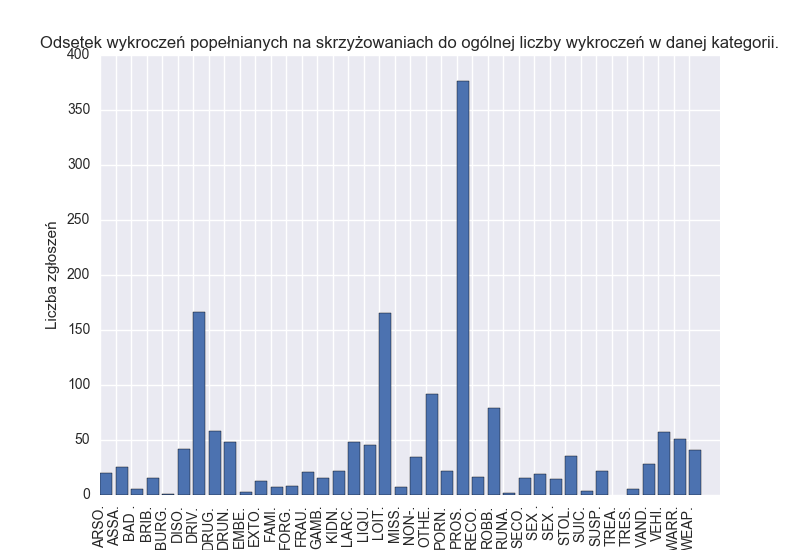
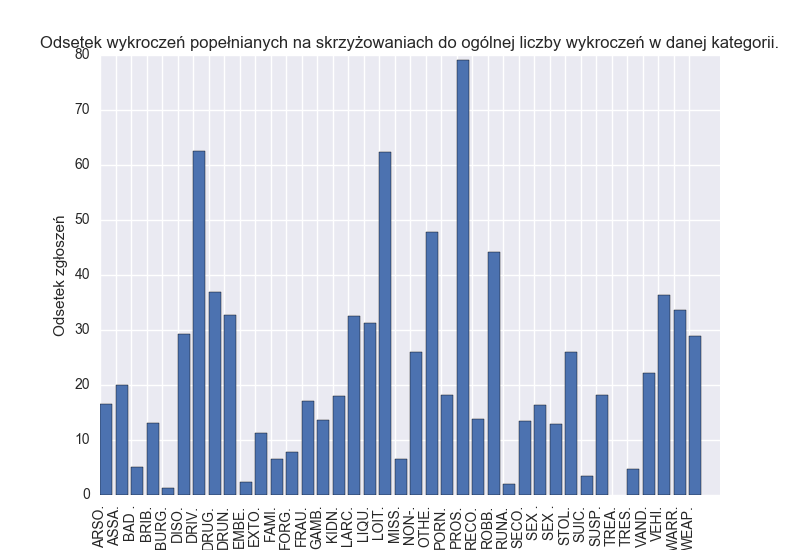
Street corner vs crime type: updated graph

diff --git a/forest.py b/forest.py
@@ -13,6 +13,7 @@ start = time.time()
 # Wczytujemy dane (pomijamy kolumny: Descript, Resolution, Address)
 train = pd.read_csv('train.csv', parse_dates = ['Dates'], index_col = False)
 test = pd.read_csv('test.csv', parse_dates = ['Dates'], index_col = False)
+
 '''
 ax = sns.countplot(x = train["Category"])
 ax.set(xlabel = 'Wykroczenie', ylabel = 'Liczba wystąpień')
@@ -39,6 +40,14 @@ test['Time'] = test['Dates'].dt.hour * 60 + test['Dates'].dt.minute
 train['Corner'] = train['Address'].str.contains('/').map(int)
 test['Corner'] = test['Address'].str.contains('/').map(int)
 
+
+thefts = train[train.Category == 'VEHICLE THEFT'].Corner.value_counts().reindex(range(2))
+print(str(thefts[0] + thefts[1]))
+
+thefts = train[train.Category == 'RECOVERED VEHICLE'].Corner.value_counts().reindex(range(2))
+print(str(thefts[0] + thefts[1]))
+
+
 # Informacja, czy jest w apartamencie
 train['Block'] = train['Address'].str.contains('Block').map(int)
 test['Block'] = test['Address'].str.contains('Block').map(int)
@@ -57,22 +66,21 @@ test['DayOfWeek'] = dayEncoder.fit_transform(test['DayOfWeek'])
 categoryEncoder = LabelEncoder()
 train['Category'] = categoryEncoder.fit_transform(train['Category'])
 
-
+'''
 categories = categoryEncoder.classes_
 categories = [(name[0:4] + '.') for name in categories]
 all_cats = [train[train.Category == cat].Corner.value_counts().reindex(range(2)) for cat in range(39)]
 
-'''
 import matplotlib.pyplot as plt
 
 output = [0] * 39
 for i in range(39):
-    output[i] = all_cats[i][1] / all_cats[i][0] * 100
+    output[i] = all_cats[i][1] / (all_cats[i][0] + all_cats[i][1]) * 100
 
 fig = plt.figure()
 plt.title('Odsetek wykroczeń popełnianych na skrzyżowaniach do ogólnej liczby wykroczeń w danej kategorii.')
 plt.bar(range(39), output)
-plt.ylabel('Liczba zgłoszeń')
+plt.ylabel('Odsetek zgłoszeń')
 plt.xticks(range(39), categories, rotation='vertical')
 fig.savefig('corner.png')
 '''
@@ -89,7 +97,7 @@ for column in skipTestColumns:
     test.pop(column)
 
 learnColumns.remove('Category')
-'''
+
 # Algorytm Random Forest (n_estimators = liczba drzew w lesie)
 clf = RandomForestClassifier()
 clf.set_params(n_estimators = 52)
@@ -125,5 +133,3 @@ with open('output.csv', 'w', newline='') as output:
 
 
 print('Time: ' + str(time.time() - start) + ' s')
-
-'''
